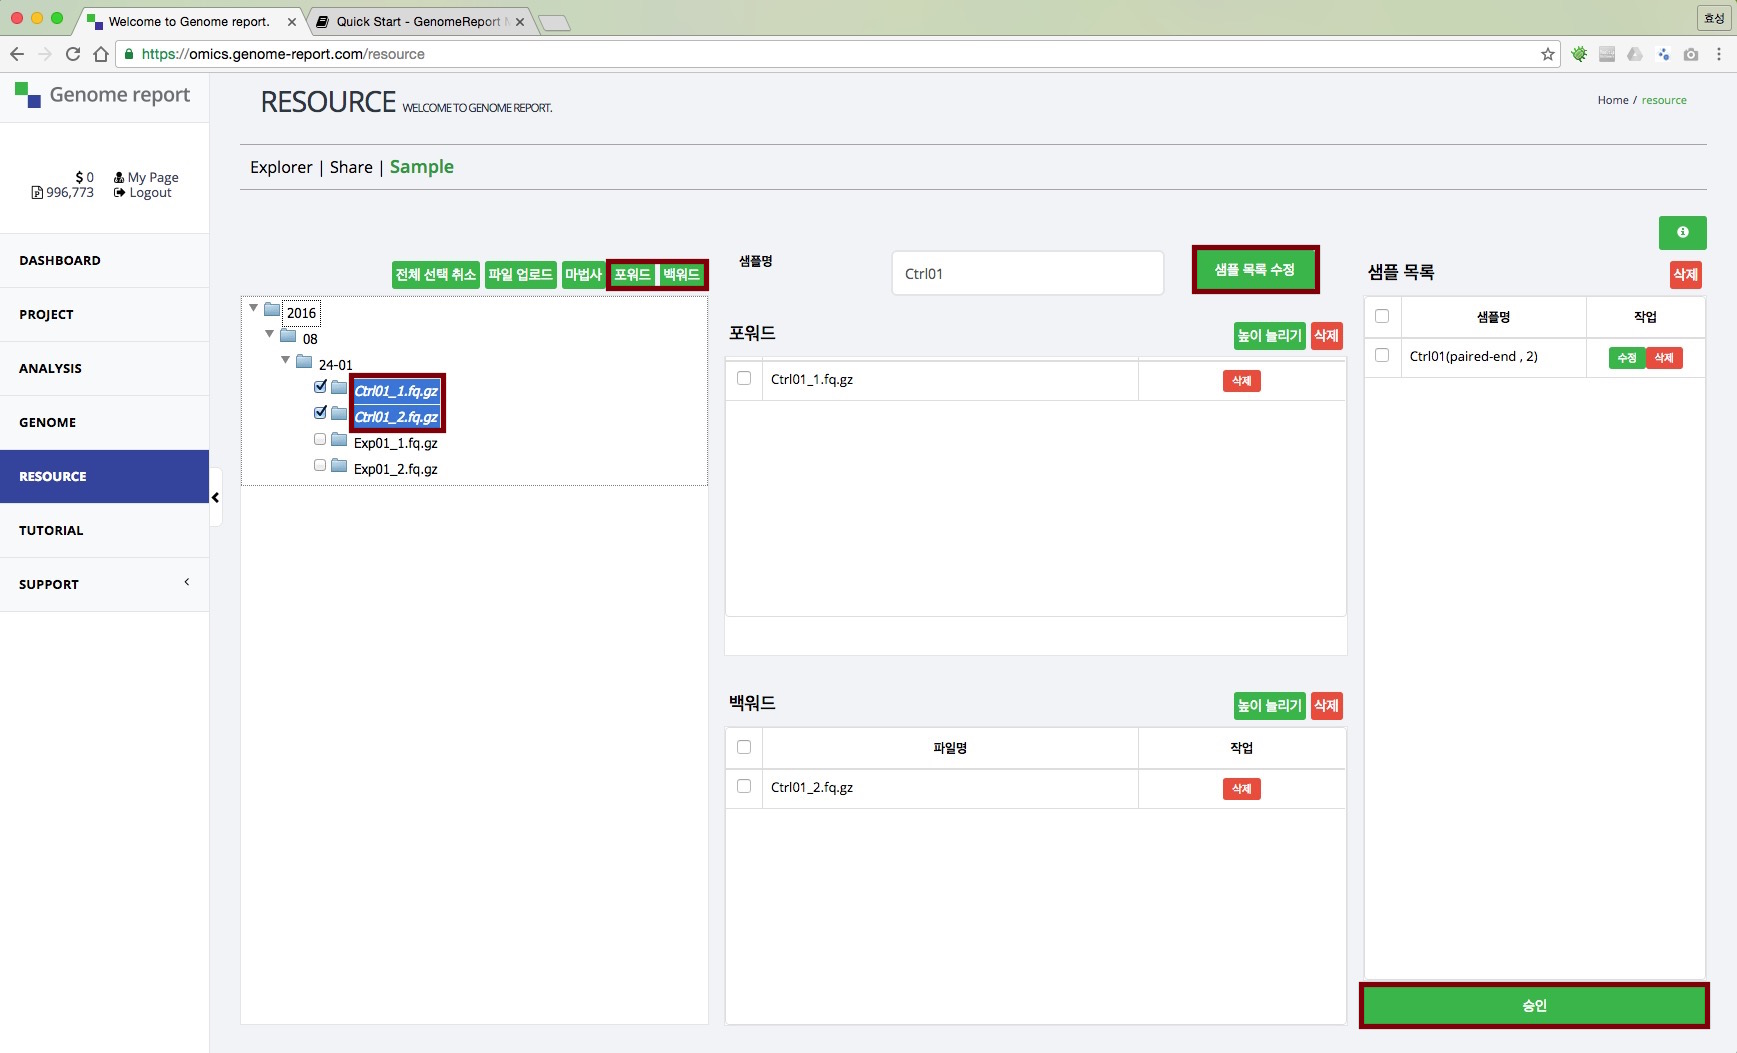
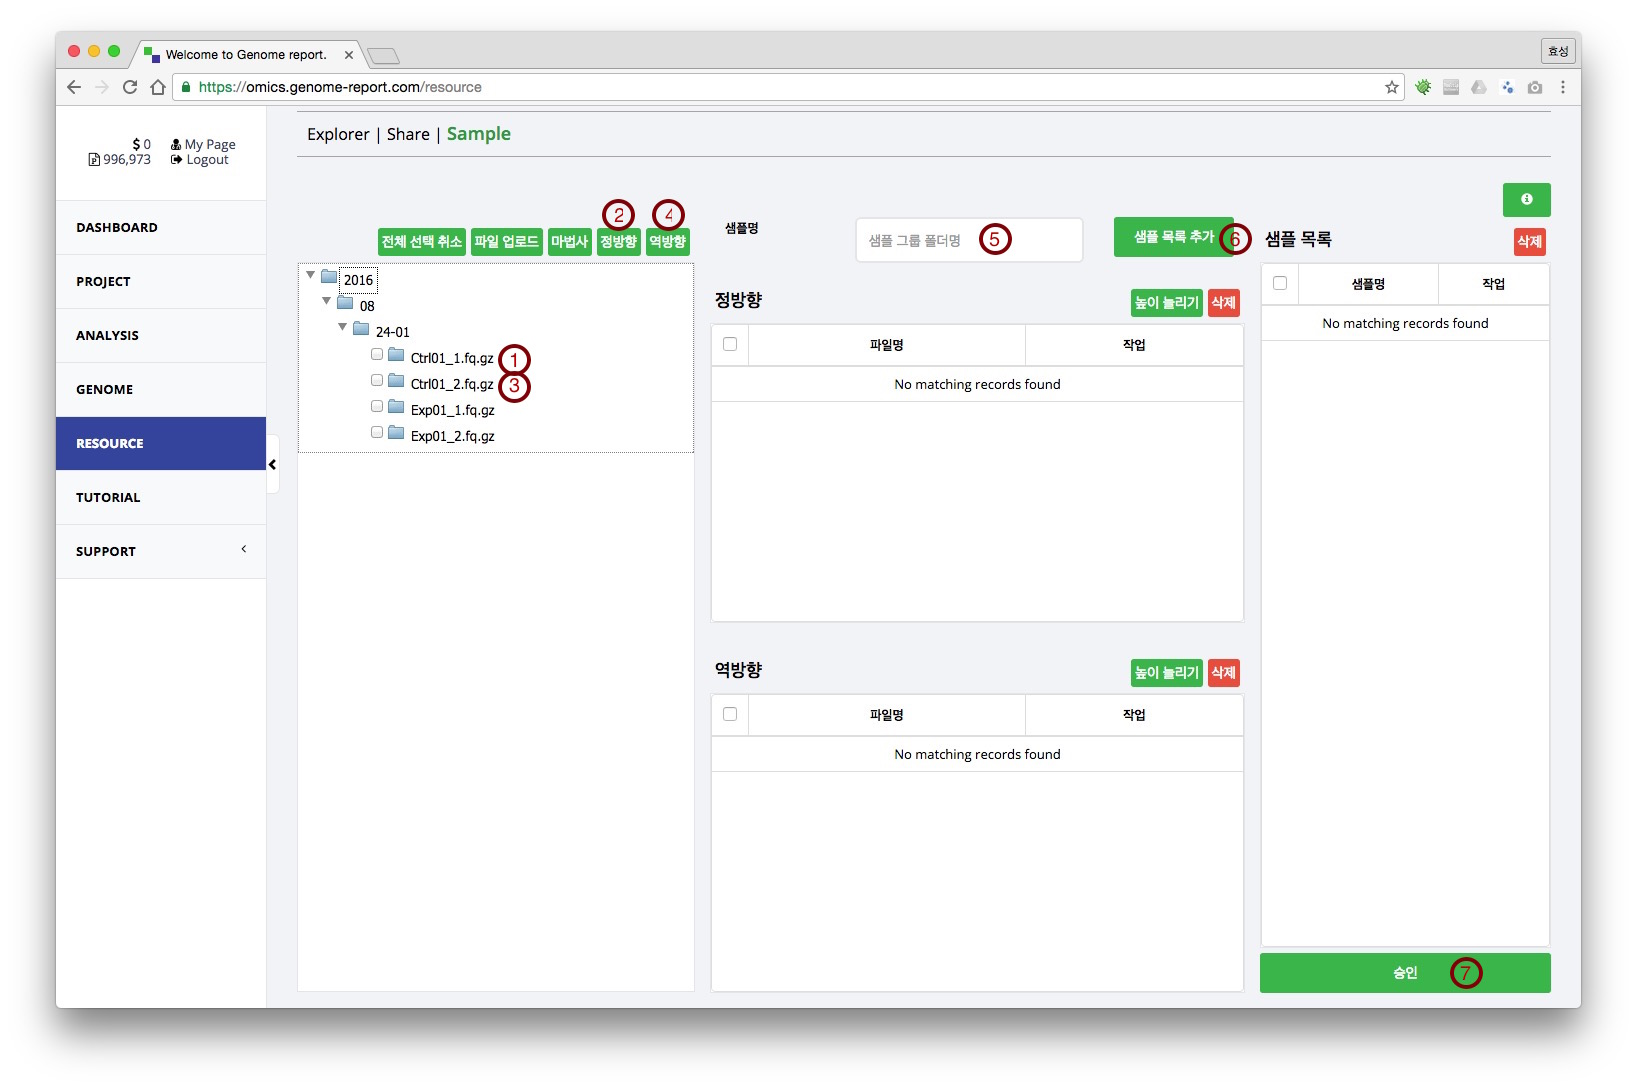
오자 수정

diff --git a/docs/quick_start/sample_register.md b/docs/quick_start/sample_register.md
@@ -17,9 +17,9 @@
 ## Step 2. 파일 지정 방법을 이용한 Ctrl01 샘플 등록 
 
 1. **2016 &#9654; 09 &#9654; 01-01** 폴더에서 `Ctrl01_1.fq.gz` 파일을 선택(check) 합니다.
-1. 선택창 위쪽에 있는 <kbd>포워드</kbd>을 클릭합니다.
+1. 선택창 위쪽에 있는 <kbd>정방향</kbd>을 클릭합니다.
 1. **2016 &#9654; 09 &#9654; 01-01** 폴더에서 `Ctrl01_2.fq.gz` 파일을 선택(check) 합니다.
-1. 선택 창 위쪽에 있는 <kbd>백워드</kbd>를 클릭합니다.
+1. 선택 창 위쪽에 있는 <kbd>역방향</kbd>를 클릭합니다.
 1. 샘플명을  `Ctrl01`로 입력합니다.
 1. <kbd>샘플 목록 추가</kbd> 버튼을 클릭합니다.
 1. 샘플 목록 맨 아래에 있는 <kbd>승인</kbd> 버튼을 클릭합니다.
